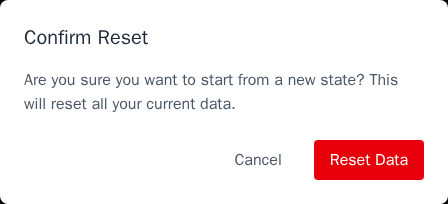
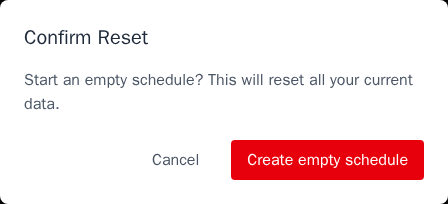
docs: rework real-schedule guide to start from an empty schedule
The guide now builds the 87-person schedule from an empty schedule rather than a shipped starter YAML. The date range is set on the Dates page and the 11 shift types plus 5 shift-type groups are created on the Shift Types page, so no starter file is committed. Add dates-range and shift-types screenshots, remove the starter screenshot, and record the shift types and groups in reference.yaml.

Refresh the general user guide to the current app. Quick Start now creates an empty schedule and adds one person (P1) and one shift (D) instead of starter people, and the People and Shift Types pages no longer reference starter data. Regenerate the affected Quick Start screenshots (start dialog, shift types, request matrix, and optimized workbook) against the running UI.

by pi (unsloth/Qwen3.8-27B-NVFP4)

diff --git a/docs/content/user-guide/build-a-real-schedule.md b/docs/content/user-guide/build-a-real-schedule.md
@@ -1,25 +1,22 @@
 # Build a Real Schedule
 
 This guide rebuilds the bundled, anonymized 87-person ward schedule for
-November 2025 entirely through the running web UI. It is validated
-end-to-end: after the steps below, **Save and Load → Download** produces a YAML
-file that matches the bundled example
-(`large-ward-with-87-people-2025-11.yaml`), except for the `appVersion` stamp,
-the top-level `description`, and two group-date requests that the UI stores as
-single-date pairs (see [Validate the result](#validate-the-result)).
+November 2025 entirely through the running web UI, starting from an empty
+schedule. It is validated end-to-end: after the steps below, **Save and Load →
+Download** produces a YAML file that matches the bundled example
+(`large-ward-with-87-people-2025-11.yaml`), except for the `appVersion` stamp
+and two group-date requests that the UI stores as single-date pairs (see
+[Validate the result](#validate-the-result)).
 
 People are anonymized as `P1` through `P87`. Group descriptions keep the
 original ward's mix of English and Chinese labels.
 
 ## Data files
 
-The companion files in the `build-a-real-schedule/` directory make
-the large, repetitive parts of the schedule importable in one action instead of
-hundreds of cell edits:
+The companion files in the `build-a-real-schedule/` directory make the large,
+repetitive parts of the schedule importable in one action instead of hundreds
+of cell edits:
 
-- [`starter.yaml`](build-a-real-schedule/starter.yaml): a minimal starter with the
-  November 2025 date range, the 11 shift types and 5 shift-type groups, and the
-  default *at most one shift per day* preference.
 - [`people.txt`](build-a-real-schedule/people.txt): the 87 person IDs.
 - [`people-history.csv`](build-a-real-schedule/people-history.csv): previous-shift
   history for every person.
@@ -28,24 +25,48 @@ hundreds of cell edits:
 - [`shift-requests-moderate.csv`](build-a-real-schedule/shift-requests-moderate.csv):
   concrete person-date requests at weight `11000000` (90 cells).
 - [`reference.yaml`](build-a-real-schedule/reference.yaml): the exact values for the
-  groups and rules that the app does not bulk-import. Create these in the UI, in
-  the listed order, so the normalized YAML matches the bundled example.
+  shift types, groups, and rules that the app does not bulk-import. Create these
+  in the UI, in the listed order, so the normalized YAML matches the bundled
+  example.
 
-## 1. Load the starter
+The November 1–30 date range is entered on the Dates page in step 1; it is not
+imported from a file.
 
-1. On the app home page, select **New Schedule**, then **Reset Data**, and
-   confirm.
-2. Open **Save and Load** and select **Upload**.
-3. Choose `starter.yaml`.
+## 1. Start from empty and set the dates
 
-Because the starter omits `appVersion`, the app shows a version notice such as
-*“The loaded file does not contain app version information … Do you want to
-continue loading the file?”* Select **OK**. The starter sets the date range,
-shift types, shift-type groups, and the default one-shift-per-day preference.
+1. On the app home page, select **New Schedule**, then **Create empty schedule**,
+   and confirm. The new schedule already includes the default *at most one shift
+   per day* preference.
+2. Open **Dates** and select **Set Date Range**.
+3. Set the start date to `2025-11-01` and the end date to `2025-11-30` (30 days
+   selected).
+4. Leave **Import Taiwan holidays into date groups** unchecked; the ward defines
+   its own `WORKDAY` and `FREEDAY` groups in step 5.
+5. Select **Update**.
 
-![Starter YAML loaded with the November range and shift types](../assets/images/user-guide/build-a-real-schedule/build-real-starter.png)
+The app creates one date item per day (`01`–`30`) and the automatic groups
+`ALL`, `WEEKDAY`, `WEEKEND`, and the weekday names.
 
-## 2. Add the 87 people
+![November 1–30 range with the automatic date groups](../assets/images/user-guide/build-a-real-schedule/build-real-dates-range.png)
+
+## 2. Create the shift types
+
+Create the 11 shift types listed under `shiftTypes.items` in `reference.yaml`,
+in that order: `D`, `D+`, `E`, `E+`, `N`, `N+`, `A`, `D~`, `E~`, `N~`, and `K`.
+Open **Shift Types**, select **Add Shift Type**, enter the ID and description,
+and select **Add**. Repeat for each shift type.
+
+The automatic `OFF` shift type and `ALL` group are always present and cannot be
+edited or deleted.
+
+Then create the 5 shift-type groups listed under `shiftTypes.groups` in
+`reference.yaml`, in that order: `Day`, `Day (w/o A, D~, K)`, `Evening`,
+`Night`, and `Student Shifts`. Select **Add Group**, enter the ID and
+description, select the member shift types, and select **Add**.
+
+![Eleven shift types and five shift-type groups with their members](../assets/images/user-guide/build-a-real-schedule/build-real-shift-types.png)
+
+## 3. Add the 87 people
 
 1. Open **People** and select **Upload People**.
 2. Choose `people.txt`.
@@ -55,7 +76,7 @@ The upload adds all 87 people (`P1`–`P87`). Each appears under the automatic
 
 ![Roster of P1 through P87 under the automatic ALL group](../assets/images/user-guide/build-a-real-schedule/build-real-people.png)
 
-## 3. Add previous-shift history
+## 4. Add previous-shift history
 
 1. Open **Shift Requests** and select **Quick Add Preference**.
 2. Select **Upload People History (shorthand)** and choose `people-history.csv`.
@@ -65,10 +86,10 @@ columns so succession rules can reach back before November 1.
 
 ![Previous-shift history for the ward roster](../assets/images/user-guide/build-a-real-schedule/build-real-history.png)
 
-## 4. Create the date groups
+## 5. Create the date groups
 
-The starter already defines the November 1–30 date range. Create the five ward
-date groups listed under `dateGroups` in `reference.yaml`:
+The November 1–30 range is already set. Create the five ward date groups listed
+under `dateGroups` in `reference.yaml`:
 
 | ID | Members |
 | --- | --- |
@@ -84,7 +105,7 @@ Keep the creation order from `reference.yaml`.
 
 ![Five ward date groups above the automatic calendar groups](../assets/images/user-guide/build-a-real-schedule/build-real-date-groups.png)
 
-## 5. Create the people groups
+## 6. Create the people groups
 
 Create the 13 ward people groups listed under `peopleGroups` in
 `reference.yaml`, in that order: `Day People w/o A`, `Day People`,
@@ -98,7 +119,7 @@ the member people from `reference.yaml`. Groups may overlap; the automatic
 
 ![Thirteen ward people groups with their member chips](../assets/images/user-guide/build-a-real-schedule/build-real-people-groups.png)
 
-## 6. Import the concrete requests
+## 7. Import the concrete requests
 
 The two CSVs hold every request for a specific person on a specific date.
 Because a CSV upload applies one weight to every non-empty cell, the cells are
@@ -113,7 +134,7 @@ split by weight into two uploads.
 Each row is one person; the columns line up with the displayed dates. Blank
 cells are ignored, so the two uploads do not conflict.
 
-## 7. Add the group and person requests
+## 8. Add the group and person requests
 
 Create the 33 shift requests listed under `shiftRequests` in `reference.yaml`
 with **Quick Add Preference**. These are the requests the CSVs do not cover:
@@ -130,7 +151,7 @@ Red cells show discouraged or forbidden work.
 
 ![Group rows filled with requests across the date-group columns](../assets/images/user-guide/build-a-real-schedule/build-real-requests.png)
 
-## 8. Add the staffing requirements
+## 9. Add the staffing requirements
 
 Create the 8 shift-type requirements listed under `requirements` in
 `reference.yaml`. Open **Shift Type Requirements** and select **Add
@@ -143,7 +164,7 @@ Requirement** for each:
 
 ![Eight staffing requirements for the ward](../assets/images/user-guide/build-a-real-schedule/build-real-requirements.png)
 
-## 9. Add the succession rules
+## 10. Add the succession rules
 
 Create the 14 shift-type successions listed under `successions` in
 `reference.yaml`. Open **Shift Type Successions** and add each pattern for
@@ -153,7 +174,7 @@ people `ALL` on dates `ALL`. These forbid sequences such as *Day then Night*
 
 ![Fourteen succession rules applied to everyone](../assets/images/user-guide/build-a-real-schedule/build-real-successions.png)
 
-## 10. Add the workload counts
+## 11. Add the workload counts
 
 Create the 3 shift counts listed under `shiftCounts` in `reference.yaml`. Open
 **Shift Counts** and add each, counting `OFF` with the expression `|x - T|^2`
@@ -169,13 +190,13 @@ at weight `-1000`:
 
 1. Open **Save and Load** and select **Download**.
 2. Compare the downloaded YAML to the bundled example. The `apiVersion`,
-   `dates`, `people`, and `shiftTypes` sections match, and every preference
-   matches once you group requests by person, shift type, and weight.
+   `description`, `dates`, `people`, and `shiftTypes` sections match, and every
+   preference matches once you group requests by person, shift type, and
+   weight.
 
-The download differs from the bundled example only in three ways, all expected:
+The download differs from the bundled example only in two ways, both expected:
 
 - `appVersion` is stamped with the running app version.
-- The top-level `description` is whatever the starter set.
 - Two group-date requests (*Day People → Evening* and *Evening People → Day*,
   each on `Before 4` and `After 4`) are stored as two single-date requests
   instead of one multi-date request. The app merges concrete date items

diff --git a/docs/content/user-guide/get-started.md b/docs/content/user-guide/get-started.md
@@ -17,13 +17,14 @@ locally.
 ## 1. Start a schedule
 
 1. Open the [Nurse Scheduling app](https://nursescheduling.org/).
-2. Select **New Schedule**, then **Reset Data**.
-3. Select **Continue**.
+2. Select **New Schedule**.
+3. In the confirmation dialog, select **Create empty schedule**.
 
-Resetting replaces the current browser data with starter people and shift
-types. Download a YAML backup first when replacing useful work.
+The new schedule has no people or working shifts. The dropdown next to
+**New Schedule** also offers the **87-person example**. Download a YAML backup
+first when replacing useful work.
 
-![Reset confirmation before creating a schedule](../assets/images/user-guide/01-start-new.png)
+![Confirmation before creating an empty schedule](../assets/images/user-guide/01-start-new.png)
 
 ## 2. Choose the dates
 
@@ -38,17 +39,18 @@ The app creates one date item per day and common groups such as `ALL`,
 
 ![A seven-day range selected in Date Management](../assets/images/user-guide/02-date-range.png)
 
-## 3. Check people and keep one shift
+## 3. Add one person and one shift
 
-1. On **People**, leave the starter people unchanged for this test.
-2. On **Shift Types**, delete every working shift except `D`.
+1. On **People**, select **Add Person** and add one person, `P1`.
+2. On **Shift Types**, select **Add Shift Type** and add one working shift,
+   `D`.
 3. For a real schedule, manage people and qualification groups on the
    [People](people.md) page. Keep workplace shifts and create groups such as
    `Day` or `Night` when several shifts share rules.
 
 The `ALL` groups and `OFF` shift type are maintained automatically.
 
-![Only the D and automatic OFF shift types remain](../assets/images/user-guide/03-shift-types.png)
+![Only the D and automatic OFF shift types](../assets/images/user-guide/03-shift-types.png)
 
 ## 4. Add minimum staffing
 

diff --git a/docs/content/user-guide/people.md b/docs/content/user-guide/people.md
@@ -16,10 +16,11 @@ are reused in staffing and preference rules.
 
 ## Add people
 
-- Keep at least one person. The starter people are sufficient for an initial
-  test.
-- For a real schedule, double-click starter IDs to replace them with the actual
-  roster. Select **Add Person** for additional entries.
+- Keep at least one person. Select **Add Person** to create one, or upload a
+  roster.
+- For a real schedule, upload the full roster, or double-click an ID to edit it
+  and replace it with the actual one. Select **Add Person** for additional
+  entries.
 - Optional: add descriptions or drag rows to control workbook order.
 
 Deleting or renaming a person updates references in preferences and export

diff --git a/docs/content/user-guide/shift-types.md b/docs/content/user-guide/shift-types.md
@@ -16,8 +16,8 @@ regular staffing. Groups let later rules target an entire shift family.
 
 ## Add working shifts
 
-1. Delete starter shifts the workplace does not use.
-2. Select **Add Shift Type** for each missing working shift.
+1. Delete any working shift your workplace does not use.
+2. Select **Add Shift Type** for each shift you need.
 
 Optional: drag rows into the preferred workbook order.
 
